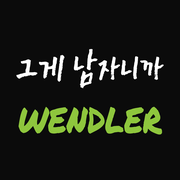
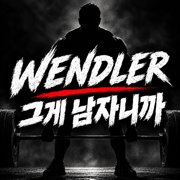
v26.09.20-1 — 앱 아이콘 교체, 남녀 버전 내용 통일

diff --git a/index.html b/index.html
@@ -410,7 +410,7 @@
 (function(){
   "use strict";
 
-  var APP_VERSION = "26.09.17-4";
+  var APP_VERSION = "26.09.20-1";
 
   /* 확대 막기 — 두 손가락 핀치, 더블탭 */
   (function(){
@@ -1357,7 +1357,7 @@
 </script>
 <script>
   (function(){
-    var CURRENT = "26.09.17-4";
+    var CURRENT = "26.09.20-1";
     var btn = document.getElementById("upd");
     var latest = null;
 

diff --git a/sw.js b/sw.js
@@ -1,5 +1,5 @@
 /* 웬들러 5·3·1 — 오프라인 캐시 */
-var VERSION = "26.09.17-4";
+var VERSION = "26.09.20-1";
 var CACHE = "w531-v" + VERSION;
 var CORE = ["./", "./index.html", "./manifest.webmanifest",
             "./apple-touch-icon.png", "./icon-192.png", "./icon-512.png"];

diff --git a/README.md b/README.md
@@ -1,11 +1,12 @@
 # 웬들러 5·3·1 — 어디든 올릴 수 있는 버전
 
-폴더 안 6개 파일이 전부입니다. 정적 호스팅에 그대로 올리면 일반 웹사이트 주소로 열립니다.
+폴더 안 7개 파일이 전부입니다. 정적 호스팅에 그대로 올리면 일반 웹사이트 주소로 열립니다.
 
 ```
 index.html              앱 본체 (CSS·JS 전부 포함)
 manifest.webmanifest    홈 화면 앱 설정
 sw.js                   오프라인 캐시 (서비스 워커)
+version.json            현재 버전 — 앱이 이 파일로 새 버전을 알아챈다
 apple-touch-icon.png    아이폰 홈 화면 아이콘 (180×180)
 icon-192.png            안드로이드·데스크톱 아이콘
 icon-512.png            스플래시 화면 아이콘
@@ -28,4 +29,4 @@ icon-512.png            스플래시 화면 아이콘
 - 기록은 **브라우저별로 따로** 저장됩니다. 링크를 공유해도 서로 섞이지 않습니다.
 - 대신 기기를 바꾸면 안 넘어갑니다. 앱 맨 아래 **백업** 칸 내용을 가끔 복사해 두세요.
 - `sw.js` 는 HTTPS 에서만 동작합니다. GitHub Pages 는 HTTPS 라 그대로 됩니다.
-- 내용을 고쳐서 다시 올릴 때는 `sw.js` 의 `CACHE = "w531-v1"` 을 `v2` 로 바꿔야 새 버전이 적용됩니다.
+- 업데이트할 때는 `index.html`, `sw.js`, `version.json` **세 파일을 함께** 올립니다. 앱을 열면 `version.json` 을 보고 `Update available · Tap to reload` 알림을 띄웁니다.
